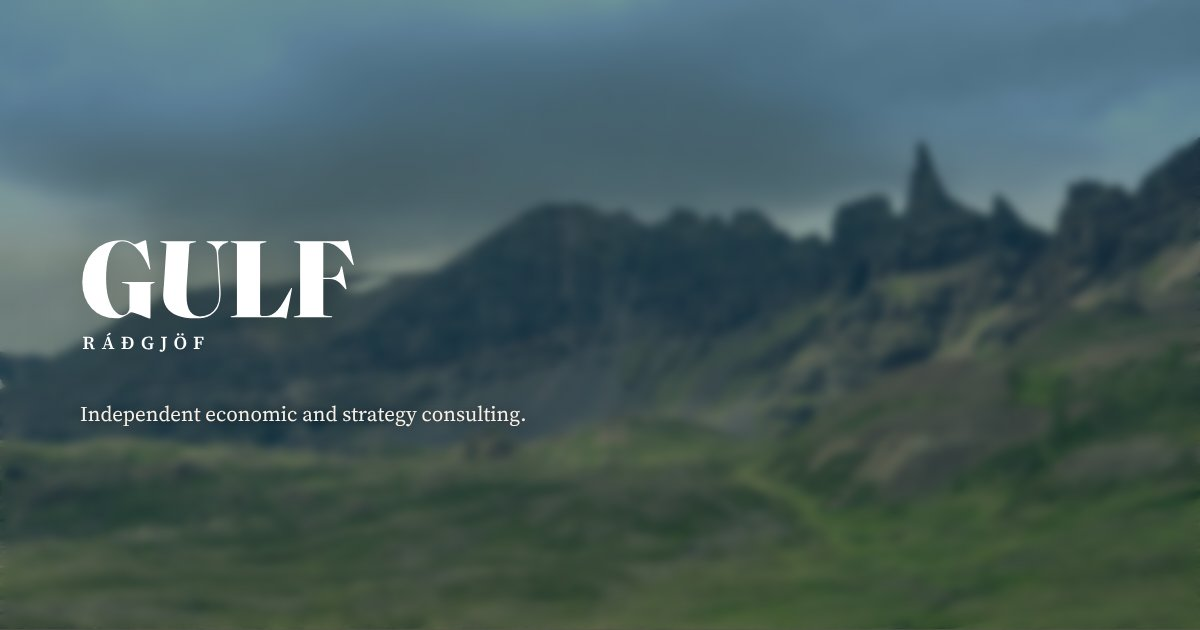
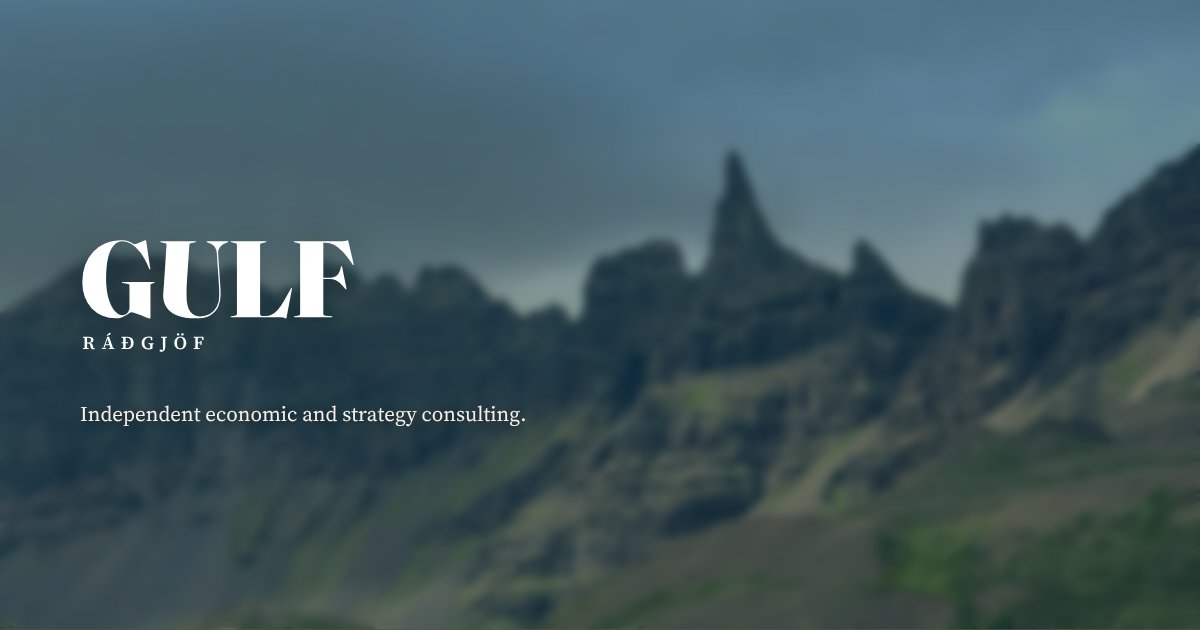
Crop the hero photo tighter around Hraundrangi
Claude-Session: https://claude.ai/code/session_01NixXCr8GJVpwBmeYcW25we

diff --git a/public/assets/css/site.css b/public/assets/css/site.css
@@ -367,7 +367,7 @@ body > main {
   position: relative;
   overflow: hidden;
   color: rgb(255, 255, 255);
-  background: url("../img/hero-hraun.jpg") 78% 50% / cover no-repeat rgb(16, 12, 8);
+  background: url("../img/hero-hraun2.jpg") 60% 50% / cover no-repeat rgb(16, 12, 8);
 }
 .hero.solo::before {
   content: "";

diff --git a/public/index.html b/public/index.html
@@ -29,7 +29,7 @@
   document.documentElement.lang=detect();
 })();
 </script>
-<link rel="stylesheet" href="/assets/css/site.css?v=22">
+<link rel="stylesheet" href="/assets/css/site.css?v=23">
 <script src="/assets/js/site.js?v=19" defer></script>
 </head>
 <body>
